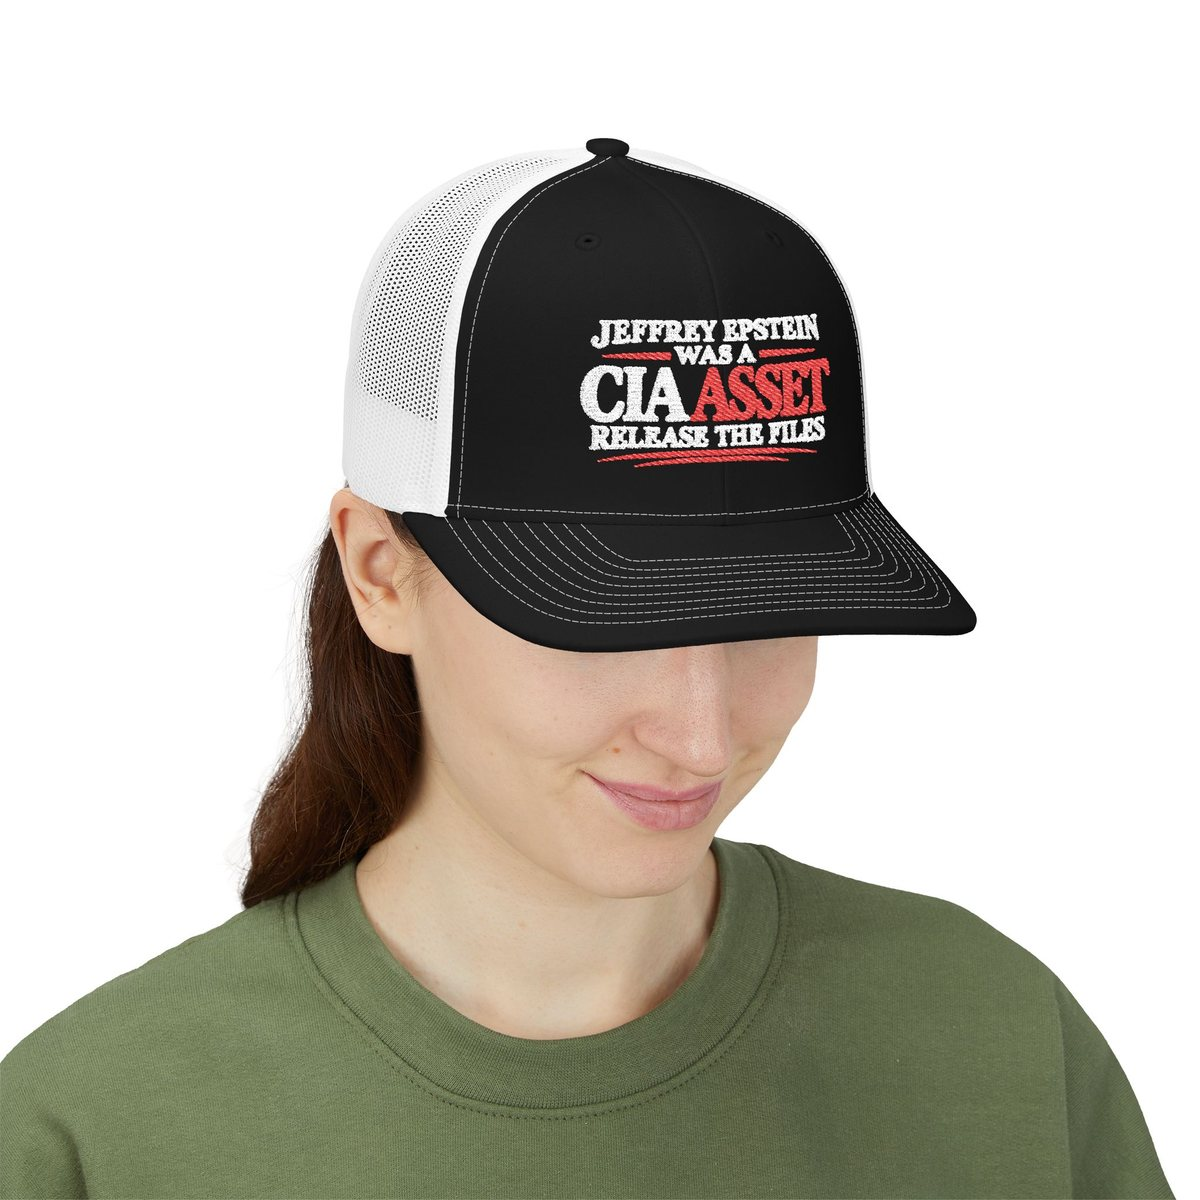
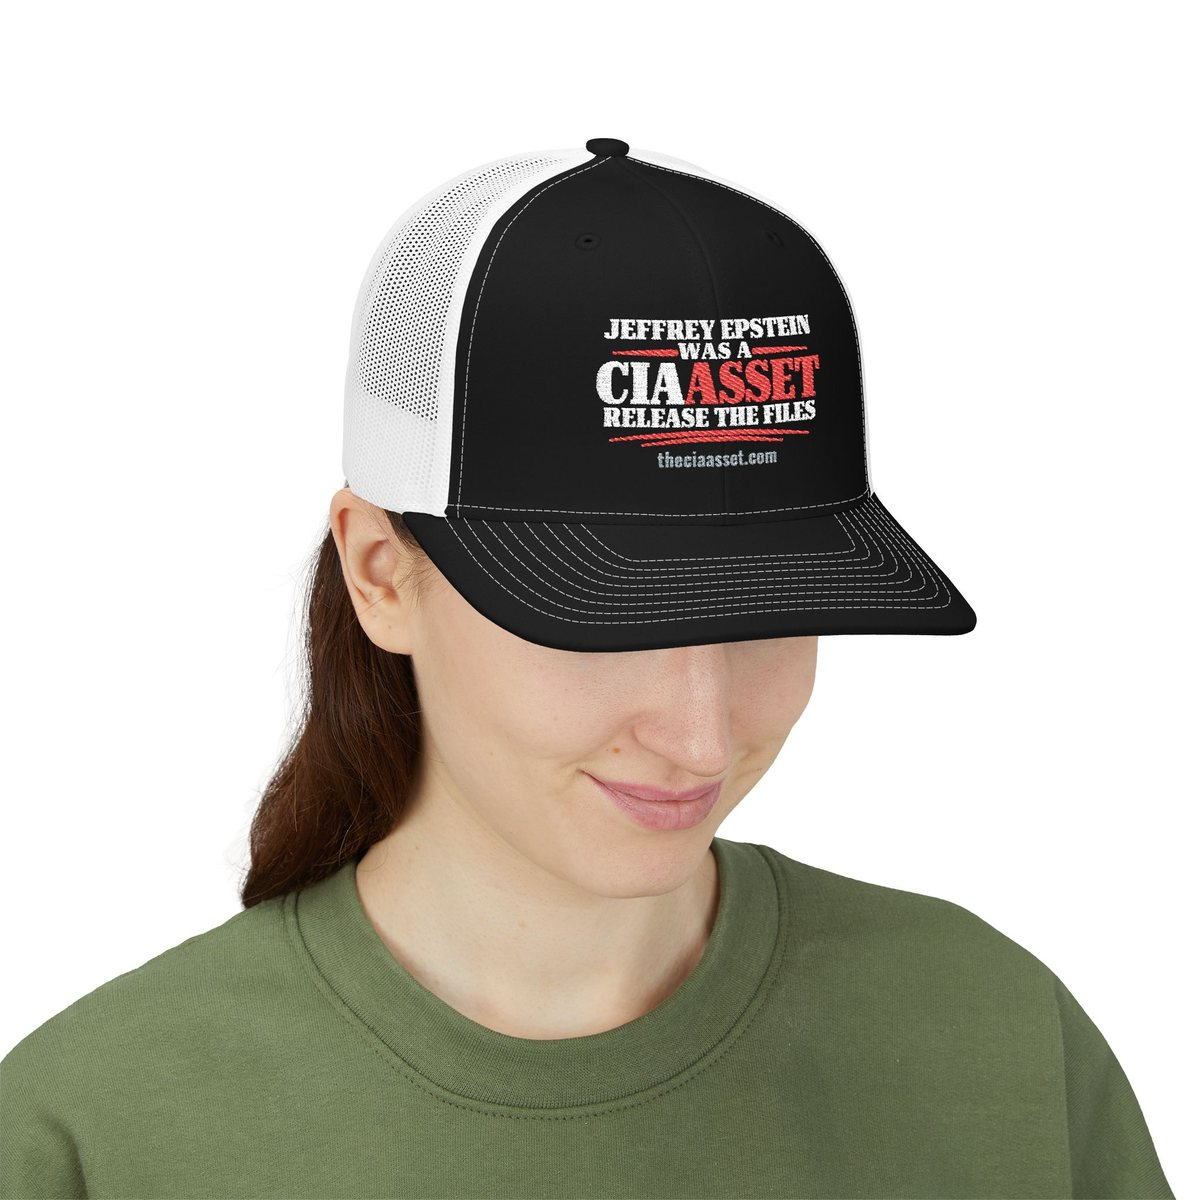
The hat's photos and embroidery details for the crisp art (hat-v2, Jason 2026-11-17: "much more crisp and professional", bright red, theciaasset.com centred at the bottom): six new renders of the real product from Printify, the close-up of the new embroidery, alt text and the embroidery line name th

Changed region(s): [[0.4625, 0.2467, 0.7092, 0.4008]]

diff --git a/assets/merch.js b/assets/merch.js
@@ -82,13 +82,13 @@
   // real size and place (front, three-quarter and side on a person, back, a close-up of the front, worn), kept on this site
   const HAT = 'TCA-R112-BW';
   const HAT_SHOTS = [
-    ['front', 'Front', 'The hat from the front: black front panels and visor, white mesh sides, the white and red embroidery centred on the front'],
+    ['front', 'Front', 'The hat from the front: black front panels and visor, white mesh sides, the white and red embroidery centred on the front with theciaasset.com in grey beneath it'],
     ['three-quarter', 'Three-quarter', 'The hat worn, seen from the front at an angle, the embroidery on the black front and the white mesh at the side'],
     ['side', 'Side and mesh', 'The hat worn, seen from the side and back: the white mesh panels and the snapback'],
     ['back', 'Back', 'The back of the hat: white mesh and the adjustable plastic snapback'],
-    ['detail', 'Embroidery', 'Close-up of the front embroidery: JEFFREY EPSTEIN WAS A CIA ASSET, RELEASE THE FILES in white and red thread'],
+    ['detail', 'Embroidery', 'Close-up of the front embroidery: JEFFREY EPSTEIN WAS A CIA ASSET, RELEASE THE FILES in white and red thread, theciaasset.com in grey'],
     ['lifestyle', 'Worn', 'The hat worn, seen from the front'],
-  ].map(([k, label, alt]) => ({ src: `assets/hats/r112-${k}.jpg?v=1`, thumb: `assets/hats/r112-${k}-thumb.jpg?v=1`, label, alt }));
+  ].map(([k, label, alt]) => ({ src: `assets/hats/r112-${k}.jpg?v=2`, thumb: `assets/hats/r112-${k}-thumb.jpg?v=2`, label, alt }));   // v2: the crisp art (hat-v2)
   const photoOf = (code, color, fallback) => (code === 'R112' ? HAT_SHOTS[0].thumb : SHOTS[code]?.[color] || fallback || null);
   const isHat = (it) => it?.product?.kind === 'hat';
   const inches = (n) => `${Number(n).toFixed(1)}\u2033`;
@@ -340,7 +340,7 @@
           <div><dt>Colour</dt><dd>${esc(c.name.replace(' / ', ' front / '))} mesh</dd></div>
           <div><dt>Fit</dt><dd>${esc(p.fit || '')}</dd></div>
           <div><dt>Materials</dt><dd>${esc(p.fabric || '')}</dd></div>
-          <div><dt>Embroidery</dt><dd>White and red thread on the front${pw ? `, ${inches(pw)} wide` : ''}.</dd></div>
+          <div><dt>Embroidery</dt><dd>White and red thread on the front${pw ? `, the design ${inches(pw)} wide` : ''}, with theciaasset.com in grey beneath it.</dd></div>
           <div><dt>Delivery</dt><dd>Embroidered for you when you order; most orders arrive in 5–10 business days. With shirts in the same order it can arrive in its own package.</dd></div>
           <div><dt>Returns</dt><dd>If it arrives damaged, with an embroidery defect or not as ordered, write to <a href="mailto:books@theciaasset.com">books@theciaasset.com</a> within 30 days of delivery with a photo and we’ll replace it free. One size and adjustable, so there is no size to exchange.</dd></div>
         </dl>

diff --git a/index.html b/index.html
@@ -949,6 +949,6 @@
 </dialog>
 <div class="toast" id="toast" role="status" aria-live="polite"></div>
 <script src="assets/site.js?v=104" defer></script>
-<script src="assets/merch.js?v=8" defer></script>
+<script src="assets/merch.js?v=9" defer></script>
 </body>
 </html>
